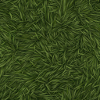
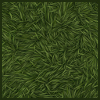
[+] GUI done

diff --git a/server/src/GUI/init.c b/server/src/GUI/init.c
@@ -5,7 +5,7 @@
 ** Login   <flavien.sellet@epitech.eu>
 **
 ** Started on  Tue Jun 27 17:37:13 2017 sellet_f
-** Last update Sat Jul  1 01:29:44 2017 sellet_f
+** Last update Sun Jul  2 02:34:23 2017 sellet_f
 */
 
 #include "GUI.h"
@@ -39,7 +39,7 @@ bool		initGUI(t_gui *GUI, t_env *env)
   GUI-> _caseInfos.linemate = GUI->_caseInfos.deraumere = 0;
   GUI->_caseInfos.sibur = GUI->_caseInfos.mendiane = 0;
   GUI->_caseInfos.phiras = GUI->_caseInfos.thystame = GUI->_caseInfos.food = 0;
-  GUI->_caseInfos.egg = 0;
+  GUI->_caseInfos.egg = GUI->_caseX = GUI->_caseY = 0;
   GUI->_interface = sfView_copy(sfRenderWindow_getView(GUI->_win));
   GUI->_camera = sfView_copy(GUI->_interface);
   vector.x = env->width / 2 * sfTexture_getSize(GUI->_grassTexture).x;
@@ -72,20 +72,30 @@ sfSprite	*initSprite(sfSprite *sprite, sfVector2f spritePos,
   return (sprite);
 }
 
-bool	initTexture(t_gui *GUI, sfVector2f spritePos)
+bool		setTextureValues(t_gui *GUI)
 {
   if (!(GUI->_pannelTexture =
-       sfTexture_createFromFile("./server/media/pannel.png", NULL)) ||
+	sfTexture_createFromFile("./server/media/pannel.png", NULL)) ||
       !(GUI->_playerInfoTexture =
-	sfTexture_createFromFile("./server/media/playerInfos2.png", NULL)) ||
+	sfTexture_createFromFile("./server/media/playerInfos.png", NULL)) ||
       !(GUI->_grassTexture =
-	sfTexture_createFromFile("./server/media/grass2.jpg", NULL)) ||
+	sfTexture_createFromFile("./server/media/grass.jpg", NULL)) ||
       !(GUI->_resourcesTexture =
 	sfTexture_createFromFile("./server/media/resources.png", NULL)) ||
+      !(GUI->_selectedGrassTexture =
+	sfTexture_createFromFile("./server/media/highlightedGrass.jpg", NULL)) ||
+      !(GUI->_selectedPlayerTexture =
+	sfTexture_createFromFile("./server/media/highlightedPlayer.png", NULL)) ||
       !(GUI->_playerTexture =
 	sfTexture_createFromFile("./server/media/playersprite.png", NULL)))
     return (false);
+  return (true);
+}
 
+bool		initTexture(t_gui *GUI, sfVector2f spritePos)
+{
+  if (setTextureValues(GUI) == false)
+    return (false);
   GUI->_pannelSprite = initSprite(GUI->_pannelSprite, spritePos, GUI->_pannelTexture, MENU);
   spritePos.x += 72;
   spritePos.y += 713;
@@ -93,9 +103,13 @@ bool	initTexture(t_gui *GUI, sfVector2f spritePos)
   				      spritePos, GUI->_playerInfoTexture, INVENTORY);
   GUI->_grassSprite = initSprite(GUI->_grassSprite, spritePos,
 				 GUI->_grassTexture, DEFAULT);
+  GUI->_selectedGrassSprite = initSprite(GUI->_selectedGrassSprite, spritePos,
+				 GUI->_selectedGrassTexture, DEFAULT);
   GUI->_resourcesSprite = initSprite(GUI->_resourcesSprite, spritePos,
 				 GUI->_resourcesTexture, DEFAULT);
   GUI->_playerSprite = initSprite(GUI->_playerSprite, spritePos,
 				 GUI->_playerTexture, PLAYER);
+  GUI->_selectedPlayerSprite = initSprite(GUI->_selectedPlayerSprite, spritePos,
+				 GUI->_selectedPlayerTexture, PLAYER);
   return (true);
 }

diff --git a/server/src/GUI/users.c b/server/src/GUI/users.c
@@ -5,7 +5,7 @@
 ** Login   <flavien.sellet@epitech.eu>
 ** 
 ** Started on  Sat Jul  1 01:19:42 2017 sellet_f
-** Last update Sat Jul  1 14:41:55 2017 sellet_f
+** Last update Sun Jul  2 02:35:36 2017 sellet_f
 */
 
 #include "GUI.h"
@@ -23,12 +23,17 @@ int			countNumberTeam(char *str, t_env  *env)
   return (counter);
 }
 
-void			checkPlayerLvl(t_users user, sfIntRect *spritePos)
+void			checkPlayerInfos(t_users user, sfIntRect *spritePos, bool checkLvl)
 {
   spritePos->top = 0;
-  spritePos->left = 32 + (user.lvl * 32);
-  if (user.lvl % 8 > 3)
-    spritePos->top = 128;
+  if (checkLvl == true)
+    spritePos->left = (user.lvl - 1) * 32;
+  else
+    {
+      spritePos->left = 0;
+      if (user.lvl % 2 == 0)
+	spritePos->left = 32;
+    }
   if (user.direction == LEFT)
     spritePos->top += 32;
   else if (user.direction == RIGHT)
@@ -37,23 +42,32 @@ void			checkPlayerLvl(t_users user, sfIntRect *spritePos)
     spritePos->top += 96;
 }
 
-void			drawPlayers(t_gui *GUI, t_env *env)
+void			drawPlayers(t_gui *GUI, t_env *env, int i)
 {
   sfIntRect		spritePos;
   sfVector2f		pos;
-  int			i;
 
-  i = -1;
   spritePos.width = spritePos.height = 32;
   while (++i < MAX_FD)
     if (env->users[i].socket != -1)
       {
-	checkPlayerLvl(env->users[i], &spritePos);
-	pos.x = env->users[i].posX * sfSprite_getGlobalBounds(GUI->_grassSprite).width;
-	pos.y = env->users[i].posY *sfSprite_getGlobalBounds(GUI->_grassSprite).height;
+	checkPlayerInfos(env->users[i], &spritePos, true);
+	pos.x = env->users[i].posX * sfSprite_getGlobalBounds
+	  (GUI->_grassSprite).width + env->users[i].graphicX;
+	pos.y = env->users[i].posY *sfSprite_getGlobalBounds
+	  (GUI->_grassSprite).height
+	  + env->users[i].graphicY;
 	sfSprite_setPosition(GUI->_playerSprite, pos);
 	sfSprite_setTextureRect(GUI->_playerSprite, spritePos);
 	sfRenderWindow_drawSprite(GUI->_win, GUI->_playerSprite, NULL);
+	if (env->users[i].socket == GUI->_userInfos.socket)
+	  {
+	    checkPlayerInfos(env->users[i], &spritePos, false);
+	    sfSprite_setPosition(GUI->_selectedPlayerSprite, pos);
+	    sfSprite_setTextureRect(GUI->_selectedPlayerSprite, spritePos);
+	    sfRenderWindow_drawSprite(GUI->_win, GUI->_selectedPlayerSprite
+				      , NULL);
+	  }
       }
 }
 
@@ -65,7 +79,8 @@ int			countPlayers(t_gui *GUI, t_env *env, bool fillGUI)
   i = -1;
   nb = 0;
   while (++i < MAX_FD)
-    if (env->users[i].socket != -1 && env->users[i].posY == GUI->_caseY
+    if (env->users[i].socket != -1
+	&& env->users[i].posY == GUI->_caseY
 	&& env->users[i].posX == GUI->_caseX)
       {
 	if (nb == 0 && fillGUI == true)

diff --git a/server/include/GUI.h b/server/include/GUI.h
@@ -5,7 +5,7 @@
 ** Login   <flavien.sellet@epitech.eu>
 **
 ** Started on  Thu Jun 22 10:57:50 2017 sellet_f
-** Last update Sat Jul  1 13:22:45 2017 sellet_f
+** Last update Sun Jul  2 02:32:44 2017 sellet_f
 */
 
 #ifndef __GUI_H__
@@ -57,16 +57,21 @@ typedef struct		s_gui
   sfView		*_interface;
   sfFont		*_font;
 
-  sfTexture		*_pannelTexture;
-  sfSprite		*_pannelSprite;
+  sfTexture		*_selectedPlayerTexture;
+  sfTexture		*_selectedGrassTexture;
   sfTexture		*_playerInfoTexture;
-  sfSprite		*_playerInfoSprite;
-  sfTexture		*_grassTexture;
-  sfSprite		*_grassSprite;
-  sfTexture		*_playerTexture;
-  sfSprite		*_playerSprite;
   sfTexture		*_resourcesTexture;
+  sfTexture		*_pannelTexture;
+  sfTexture		*_playerTexture;
+  sfTexture		*_grassTexture;
+
+  sfSprite		*_selectedPlayerSprite;
+  sfSprite		*_selectedGrassSprite;
+  sfSprite		*_playerInfoSprite;
   sfSprite		*_resourcesSprite;
+  sfSprite		*_pannelSprite;
+  sfSprite		*_playerSprite;
+  sfSprite		*_grassSprite;
 
   t_items		_caseInfos;
   int			_caseX;
@@ -100,7 +105,11 @@ void		drawText(t_gui *, t_env *);
 
 /* users.c */
 int		countNumberTeam(char *, t_env *);
-void		drawPlayers(t_gui *, t_env *);
+void		drawPlayers(t_gui *, t_env *, int);
 int		countPlayers(t_gui *, t_env *, bool);
 void		checkPlayerOnTile(t_gui *, t_env *);
+
+/* refreshInfos.c */
+void		refreshInfos(t_gui *, t_env *);
+
 #endif

diff --git a/server/src/GUI/map.c b/server/src/GUI/map.c
@@ -5,7 +5,7 @@
 ** Login   <flavien.sellet@epitech.eu>
 ** 
 ** Started on  Thu Jun 29 17:16:57 2017 sellet_f
-** Last update Sat Jul  1 01:29:53 2017 sellet_f
+** Last update Sat Jul  1 16:37:37 2017 sellet_f
 */
 
 #include "GUI.h"
@@ -73,8 +73,16 @@ void			drawMap(t_gui *GUI, t_env *env)
 	{
           tilePos.x = x * sfSprite_getGlobalBounds(GUI->_grassSprite).width;
 	  tilePos.y = y * sfSprite_getGlobalBounds(GUI->_grassSprite).height;
-	  sfSprite_setPosition(GUI->_grassSprite, tilePos);
-	  sfRenderWindow_drawSprite(GUI->_win, GUI->_grassSprite, NULL);
+	  if (x == GUI->_caseX && y == GUI->_caseY)
+	    {
+	      sfSprite_setPosition(GUI->_selectedGrassSprite, tilePos);
+	      sfRenderWindow_drawSprite(GUI->_win, GUI->_selectedGrassSprite, NULL);
+	    }
+	  else
+	    {
+	      sfSprite_setPosition(GUI->_grassSprite, tilePos);
+	      sfRenderWindow_drawSprite(GUI->_win, GUI->_grassSprite, NULL);
+	    }
 	  checkResources(GUI, y, x, env);
 	}
     }

diff --git a/server/src/GUI/refreshInfos.c b/server/src/GUI/refreshInfos.c
@@ -1,0 +1,35 @@
+/*
+** refreshInfos.c for Project-Master in /home/sellet_f/Projets/Tek2/Zappy
+** 
+** Made by sellet_f
+** Login   <flavien.sellet@epitech.eu>
+** 
+** Started on  Sat Jul  1 15:33:49 2017 sellet_f
+** Last update Sat Jul  1 16:03:26 2017 sellet_f
+*/
+
+#include "GUI.h"
+
+void		refreshInfos(t_gui *GUI, t_env *env)
+{
+  sfColor	color;
+  int		i;
+
+  i = -1;
+  GUI->_caseInfos = env->map[GUI->_caseY][GUI->_caseX];
+  if (GUI->_userInfos.socket != -1)
+    {
+      while (++i < MAX_FD)
+  	if (GUI->_userInfos.socket == env->users[i].socket)
+  	  {
+  	    GUI->_userInfos = env->users[i];
+  	    break;
+  	  }
+      if (i == MAX_FD)
+  	{
+  	  color = sfSprite_getColor(GUI->_playerInfoSprite);
+  	  color.a = 0;
+  	  sfSprite_setColor(GUI->_playerInfoSprite, color);
+  	}
+    }
+}

diff --git a/server/src/GUI/GUI.c b/server/src/GUI/GUI.c
@@ -5,7 +5,7 @@
 ** Login   <flavien.sellet@epitech.eu>
 **
 ** Started on  Thu Jun 22 11:02:53 2017 sellet_f
-** Last update Sat Jul  1 01:40:57 2017 sellet_f
+** Last update Sun Jul  2 02:32:30 2017 sellet_f
 */
 
 #include "GUI.h"
@@ -14,11 +14,12 @@ void			drawGUI(t_gui *GUI, t_env *env)
 {
   sfRenderWindow_clear(GUI->_win, sfBlack);
   inputsAndEvents(GUI, env);
+  refreshInfos(GUI, env);
   if (sfRenderWindow_isOpen(GUI->_win))
     {
       sfRenderWindow_setView(GUI->_win, GUI->_camera);
       drawMap(GUI, env);
-      drawPlayers(GUI, env);
+      drawPlayers(GUI, env, -1);
       sfRenderWindow_setView(GUI->_win, GUI->_interface);
       sfRenderWindow_drawSprite(GUI->_win, GUI->_pannelSprite, NULL);
       sfRenderWindow_drawSprite(GUI->_win, GUI->_playerInfoSprite, NULL);

diff --git a/server/src/client_management.c b/server/src/client_management.c
@@ -5,7 +5,7 @@
 ** Login   <matthias.prost@epitech.eu@epitech.eu>
 **
 ** Started on  Mon Jun 26 15:25:06 2017 Matthias Prost
-** Last update Sat Jul  1 14:17:10 2017 sellet_f
+** Last update Sat Jul  1 19:32:59 2017 sellet_f
 */
 
 #include "server.h"
@@ -50,7 +50,7 @@ void		addUserTab(t_env *env, int socket)
           env->users[i].posX = rand() % env->width;
           env->users[i].posY = rand() % env->height;
         }
-        env->users[i].graphicY = rand() % 68;
+        env->users[i].graphicY = rand() % 60;
         env->users[i].graphicX = rand() % 68;
         env->users[i].direction = rand() % 4;
         env->users[i].teamName = NULL;
